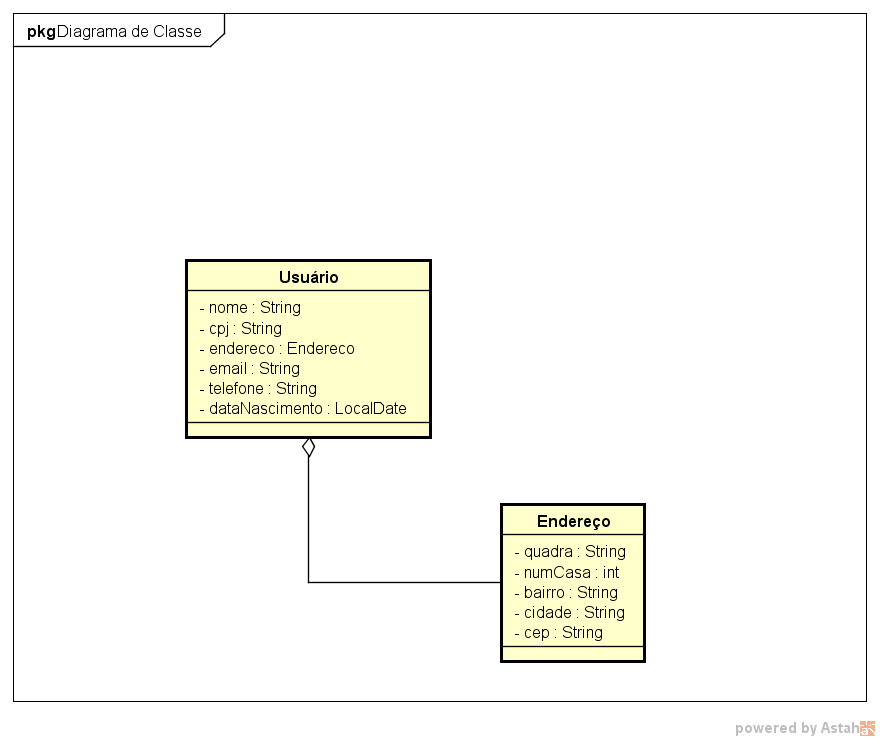
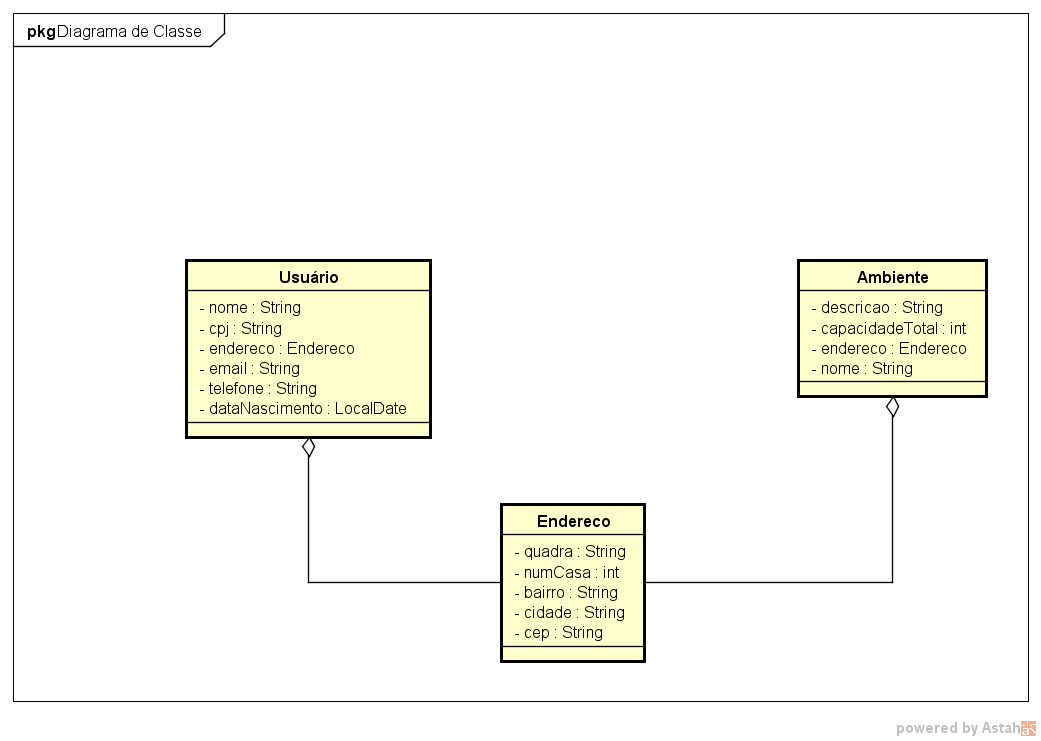
Atualização do Diagrama e modificação da classe Endereco

diff --git a/src/br/com/projecao/evento/model/Usuario.java b/src/br/com/projecao/evento/model/Usuario.java
@@ -1,9 +1,62 @@
 package br.com.projecao.evento.model;
 
-import java.sql.Date; 
+import java.sql.Date;
+import java.time.LocalDate;
 
 public class Usuario {
-	
 
-			
+	private String nome;
+	private String cpf;
+	private Endereco endereco;
+	private String email;
+	private String telefone;
+	private LocalDate dataNascimento;
+
+	public String getNome() {
+		return nome;
 	}
+
+	public void setNome(String nome) {
+		this.nome = nome;
+	}
+
+	public String getCpf() {
+		return cpf;
+	}
+
+	public void setCpf(String cpf) {
+		this.cpf = cpf;
+	}
+
+	public Endereco getEndereco() {
+		return endereco;
+	}
+
+	public void setEndereco(Endereco endereco) {
+		this.endereco = endereco;
+	}
+
+	public String getEmail() {
+		return email;
+	}
+
+	public void setEmail(String email) {
+		this.email = email;
+	}
+
+	public String getTelefone() {
+		return telefone;
+	}
+
+	public void setTelefone(String telefone) {
+		this.telefone = telefone;
+	}
+
+	public LocalDate getDataNascimento() {
+		return dataNascimento;
+	}
+
+	public void setDataNascimento(LocalDate dataNascimento) {
+		this.dataNascimento = dataNascimento;
+	}
+}
